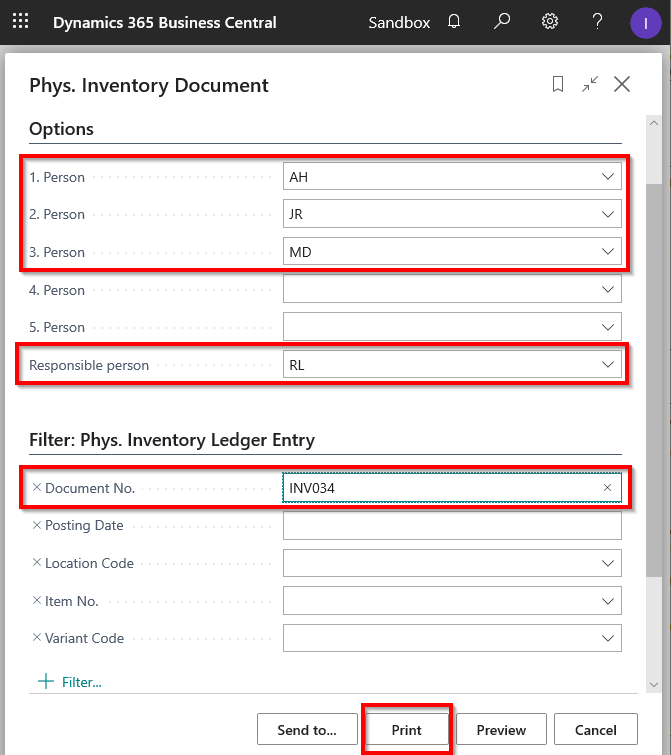
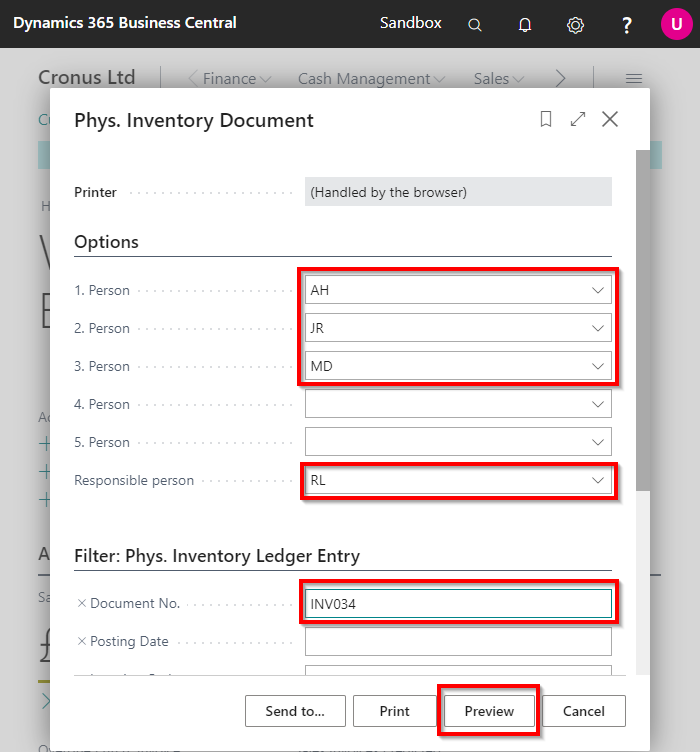
Automated Release lv-LV

diff --git a/lv-LV/docs/personnel_base/usage_scenarios/usage_scenarios.html b/lv-LV/docs/personnel_base/usage_scenarios/usage_scenarios.html
@@ -402,7 +402,7 @@ You should assign a foreign payment code for incoming external payment and prepa
 </ol>
 <p><img src="base_fbp002.png" alt="alt"></p>
 <h1 id="walkthrough-import-currency-exchange-rates">Walkthrough: Import Currency Exchange Rates</h1>
-<p><strong>About this walkthrough</strong>: transactions in foreign currencies are recorded in the system in local currency, based on currency exchange rate. Currency Exchange Rates may be uploaded into system either automatically on a regular basis using a job que entry or manually by user. The source of information is European Central Bank (<a href="http://www.ecb.int/stats/exchange/eurofxref/html/index.en.html">http://www.ecb.int/stats/exchange/eurofxref/html/index.en.html</a>).
+<p><strong>About this walkthrough</strong>: transactions in foreign currencies are recorded in the system in local currency, based on currency exchange rate. Currency Exchange Rates may be uploaded into system either automatically on a regular basis using a job queue entry or manually by user. The source of information is European Central Bank (<a href="http://www.ecb.int/stats/exchange/eurofxref/html/index.en.html">http://www.ecb.int/stats/exchange/eurofxref/html/index.en.html</a>).
 This walkthrough demonstrates the process for importing currency exchange rates.</p>
 <p><strong>Roles</strong>: No specific user roles are required.</p>
 <p><strong>Story</strong>: You are Anette Hill, assigned by Cronus International to import currency exchange rates.</p>
@@ -418,7 +418,7 @@ In order to enable the Currency Exchange Rate Service proceed with following ste
 </ol>
 <p><img src="Setup_CurrExchangeRates_001.png" alt="alt"></p>
 <ol start="3">
-<li>Select ECB-EXCHANGE-RATES from Currency Exchange Rate Services and press Enable. Enabling will creates a JobQueue entry, what will automatically runs the currency rate import.</li>
+<li>Select ECB-EXCHANGE-RATES from Currency Exchange Rate Services and press Enable. Enabling will creates a job queue entry, what will automatically runs the currency rate import.</li>
 </ol>
 <p><img src="us_Setup_CurrExchangeRates_002.png" alt="alt"></p>
 <ol start="4">
@@ -430,7 +430,7 @@ In order to enable the Currency Exchange Rate Service proceed with following ste
 </ol>
 <p><img src="Usage_Currencies_001.png" alt="alt"></p>
 <ol start="6">
-<li><p>Review the list of Currencies. Review only the currencies that are supported by ECB, for example AUD. If the automatically JOBQueue update will be already done, then the Exchange Rate will be imported.
+<li><p>Review the list of Currencies. Review only the currencies that are supported by ECB, for example AUD. If the automatically job queue update will be already done, then the Exchange Rate will be updated.
 <img src="us_base_use_curr002.png" alt="alt"></p>
 </li>
 <li><p>It the rates are not yet updated then a manual update can be done by clicking on <em>Import Currency Rates</em></p>
@@ -465,7 +465,7 @@ Cronus Ltd has agreed on a sales order with 50% prepayment with customer 20000 T
 <ol>
 <li>Choose the Search icon, enter sales orders, and click the related link.</li>
 <li>On the ribbon, on the Home tab, click New to create the prepayment sales order.</li>
-<li>In the Customer field enter <em>20000</em> and move to the next field. The sales order header is automatically filled in with the default settings from the customer card.</li>
+<li>In the Customer field choose customer <em>20000</em> and move to the next field. The sales order header is automatically filled in with the default settings from the customer card.</li>
 <li>In the Document Date, Posting Date and Order Date fields, enter desirable date, for example today's date.</li>
 <li>Expand the Prepayment FastTab.</li>
 <li>In the Prepayment % field, enter 50.</li>
@@ -480,7 +480,7 @@ Cronus Ltd has agreed on a sales order with 50% prepayment with customer 20000 T
 <p><img src="us_To_033.png" alt="alt">
 <img src="us_To_033.1.png" alt="alt"></p>
 <ol start="15">
-<li>Print Sales Prepayment Invoice- Particular Print button LV Sales Prepayment Invoice is located in the Ribbon under the TAB ACTIONS, in section PRINT.</li>
+<li>Print Sales Prepayment Invoice- Particular Print button <em>LV Sales Prepayment Invoice</em> is located in the ribbon under the tab <em>Actions</em>, in section <em>Print</em>.</li>
 </ol>
 <p><img src="us_To_032.png" alt="alt"></p>
 <ol start="15">
@@ -496,7 +496,7 @@ Cronus Ltd has agreed on a sales order with 50% prepayment with customer 20000 T
 </ul>
 <p><img src="us_To_034.png" alt="alt"></p>
 <ol start="16">
-<li>View Printout</li>
+<li>View Preview</li>
 </ol>
 <p><img src="us_To_035.png" alt="alt"></p>
 <p><strong>Note</strong>: document can be printed from unposted sales documents- Sales Order.</p>
@@ -504,13 +504,13 @@ Cronus Ltd has agreed on a sales order with 50% prepayment with customer 20000 T
 <p><strong>About this walkthrough</strong>: is prepared for customers as a sales invoice for goods shipped as sales source document. The printout has all required data for sales.
 This walkthrough demonstrates the process for printing sales invoice.</p>
 <p><strong>Roles</strong>: No specific user roles are required.</p>
-<p><strong>Story</strong>: You are Aleksandrs Kuzņecovs, assigned by Cronus International to be a salesperson in Cronus Ltd. The company runs business in the sphere of sales of furniture and rendering consultation services related to interior design upon request of local customers.
+<p><strong>Story</strong>: You are Peter Saddow, assigned by Cronus International to be a salesperson in Cronus Ltd. The company runs business in the sphere of sales of furniture and rendering consultation services related to interior design upon request of local customers.
 Cronus Ltd has agreed on a sales order with customer 20000 Trey Research, therefore your task is to prepare a sales invoice.</p>
 <p><strong>Pre-requisites</strong>: Master data catalogues to be created and configured.</p>
 <p><strong>Steps</strong>:</p>
 <ol>
 <li>Choose the Search icon, enter sales orders, and click the related link.</li>
-<li>On the ribbon, on the Home tab, click New to create the prepayment sales order.</li>
+<li>On the ribbon, on the Home tab, click New to create the sales order.</li>
 <li>In the Customer field enter <em>20000</em> and move to the next field. The sales order header is automatically filled in with the default settings from the customer card.</li>
 <li>In the Document Date, Posting Date and Order Date fields, enter today's date.</li>
 <li>Enter Sales Person code PS for Peter Saddow</li>
@@ -529,13 +529,12 @@ Cronus Ltd has agreed on a sales order with customer 20000 Trey Research, theref
 <p><img src="us_To_029.1.png" alt="alt">
 <img src="us_To_029.2.png" alt="alt"></p>
 <ol start="20">
-<li>Print Sales Invoice- Particular Print button LV Sales Invoice is located in the Ribbon under the TAB ACTIONS, in section PRINT.</li>
+<li>Print Sales Invoice- Particular Print button <em>LV Sales Invoice</em> is located in the ribbon under the tab <em>Actions</em>, in section <em>Print</em>.</li>
 </ol>
 <p><img src="us_To_029.png" alt="alt"></p>
 <ol start="20">
-<li>Set Printing Options</li>
+<li>Set Printing Options:</li>
 </ol>
-<p><strong>Printing Options</strong>: the following printing options are available for this printout:</p>
 <ul>
 <li>Count of Copies – enter 1, that will ensure printing of one original and one document copy</li>
 <li>Service invoice – should not be checked</li>
@@ -547,7 +546,7 @@ Cronus Ltd has agreed on a sales order with customer 20000 Trey Research, theref
 </ul>
 <p><img src="us_To_030.png" alt="alt"></p>
 <ol start="21">
-<li>Press Print</li>
+<li>Press Preview</li>
 </ol>
 <p><img src="us_To_031.png" alt="alt"></p>
 <h2 id="transfer-invoice">Transfer Invoice</h2>
@@ -559,15 +558,15 @@ Cronus Ltd requires to transfer goods from location MAIN to location EAST, there
 <p><strong>Pre-requisites</strong>: Master data catalogues to be created and configured.</p>
 <p><strong>Steps</strong>:</p>
 <ol>
-<li>Choose the Search icon, enter transfer orders, and click the related link.</li>
-<li>On the ribbon, on the Home tab, click New to create the transfer order.</li>
+<li>Choose the Search icon, enter <em>Transfer orders</em>, and click the related link.</li>
+<li>On the ribbon, on the Home tab, click <em>New</em> to create the transfer order.</li>
 <li>In the Transfer From field select location code (MAIN), in Transfer to field select location code (EAST), set In-Transit code (OWN LOG).</li>
 <li>In the Document Date, Posting Date and Order Date fields enter the date, for example today's date.</li>
 <li>Move to the Lines FastTab.</li>
 <li>In the first line enter the following information:</li>
 <li>In the No. field, enter Item No. (1896-S).</li>
 <li>In the Quantity field, enter 2.</li>
-<li>Print Transfer Invoice- Particular Print button LV Transfer Invoice is located in the Ribbon under the TAB ACTIONS.</li>
+<li>Print Transfer Invoice- Particular Print button <em>LV Transfer Invoice</em> is located in the ribbon under the tab <em>Action</em>.</li>
 </ol>
 <p><img src="us_To_046.png" alt="alt"></p>
 <ol start="10">
@@ -586,7 +585,7 @@ Cronus Ltd requires to transfer goods from location MAIN to location EAST, there
 <h1 id="walkthrough-post-advance-holder-transactions-and-prepare-advance-statement-report">Walkthrough: Post Advance Holder Transactions and Prepare Advance Statement Report</h1>
 <p><strong>About this walkthrough</strong>:  Advance holder transactions are the procurements made by the Employee, that are considered as company expenses. When a procurement happens, an advance holder reports to the company about the expenditures that were made. This walkthrough demonstrates the process for recording, controlling and reimbursing employee expenses.</p>
 <p><strong>Role</strong>: No specific user roles are required.</p>
-<p><strong>Story</strong>: You are John Roberts, assigned by Cronus International to be a CFO in Cronus. The company runs business in the sphere of sales of furniture and rendering consultation services related to interior design upon request of local customers.
+<p><strong>Story</strong>: You are John Roberts, assigned by Cronus International to be a CFO in Cronus Ltd. The company runs business in the sphere of sales of furniture and rendering consultation services related to interior design upon request of local customers.
 Cronus is required to record employee expenses for John Smith and create Advance Statement report.</p>
 <p><strong>Pre-requisites</strong>: Master data catalogues to be created and configured.</p>
 <p><strong>Steps</strong></p>
@@ -609,7 +608,7 @@ Cronus is required to record employee expenses for John Smith and create Advance
 <li><p>Enter Purchases &amp; Payables setup, and click the related link.
 <img src="GettingStarted_Search_001.4.png" alt="alt"></p>
 </li>
-<li><p>Enable function Copy line description to G/L Entry.
+<li><p>Enable function <em>Copy line description to G/L Entry</em>
 <img src="GettingStarted_Search_001.5.png" alt="alt"></p>
 </li>
 <li><p>Click on the button Search for Page or Report...
@@ -662,7 +661,7 @@ Cronus is required to record employee expenses for John Smith and create Advance
 <img src="us_base_use_advr1.png" alt="alt"></li>
 </ul>
 <ol start="19">
-<li>Press Print and review the printout
+<li>Press Preview and review the printout
 <img src="us_base_use_advr3.png" alt="alt"></li>
 </ol>
 <h1 id="walkthrough-inventory">Walkthrough: Inventory</h1>
@@ -670,8 +669,8 @@ Cronus is required to record employee expenses for John Smith and create Advance
 <p><strong>About this walkthrough</strong>:  Company may perform a stock-take on regular basis, in order to control item quantities in system and in nature.
 This walkthrough demonstrates the process for recording and controlling physical inventory.</p>
 <p><strong>Role</strong>: no specific role required</p>
-<p><strong>Story</strong>: You are Richard Lum, Production Manager in Cronus International. The company runs business in the sphere of sales of furniture and rendering consultation services related to interior design upon request of local customers.
-Cronus International is required to perform an inventory stock take. Your task is to calculate stock for item 1896-S and prepare Physical Inventory Document.</p>
+<p><strong>Story</strong>: You are Richard Lum, Production Manager in Cronus Ltd. The company runs business in the sphere of sales of furniture and rendering consultation services related to interior design upon request of local customers
+Cronus Ltd is required to perform an inventory stock-take. Your task is to calculate stock for item 1896-S and prepare Physical Inventory Document.</p>
 <p><strong>Pre-requisites:</strong> Master data catalogues to be created and configured.</p>
 <p><strong>Steps</strong>:</p>
 <ol>
@@ -684,18 +683,18 @@ Cronus International is required to perform an inventory stock take. Your task i
 <li>In the Calculate Inventory window, specify the conditions to use to create the journal lines, such as whether to include items that have zero recorded inventory.</li>
 </ol>
 <ul>
-<li>Posting Date - <strong>9/21/2020</strong></li>
-<li>Document No. - <strong>INV034</strong></li>
-<li>No. - <strong>1896-S</strong>
+<li>Posting Date - today's date</li>
+<li>Document No. - (INV034)</li>
+<li>No. - (1896-S)
 <img src="us_base_physical003.png" alt="alt"></li>
 </ul>
 <ol start="5">
 <li>Choose the OK button.</li>
-<li>For first journal line Item 1896-S change Qty. (Phys.Inventory) set to 3
+<li>For first journal line Item 1896-S change Qty. (Phys.Inventory) to 3
 <img src="us_base_use_inv001.png" alt="alt"></li>
-<li>Post Journal</li>
+<li>Post journal by clicking on <em>Post/Print</em> and <em>Post</em></li>
 <li>Choose the OK button.</li>
-<li>Enter Phys. Inventory Document in Search for Page or Report…
+<li>Enter <em>Phys. Inventory Document</em> in Search for Page or Report…
 <img src="To_062.png" alt="alt"></li>
 </ol>
 <p><strong>Note</strong>: The document can be printed only after the Phys. Inventory Journal lines are posted and Adjust Cost-Item Entries job has been successfully executed.</p>
@@ -722,7 +721,7 @@ Few damaged goods are identified after the stock take. Your task is to write off
 <ol>
 <li><p>Choose the Search icon, enter Item Journals, and then choose the related link.</p>
 </li>
-<li><p>Enter Posting Date- 09/30/2020</p>
+<li><p>Enter Posting Date- today's date</p>
 </li>
 <li><p>Enter Entry Type- Negative Adjmt.</p>
 </li>
@@ -739,28 +738,22 @@ Few damaged goods are identified after the stock take. Your task is to write off
 <li><p>Press OK to close the journal
 <img src="us_base_use_comp004.png" alt="alt"></p>
 </li>
-<li><p>Choose the  icon, enter Posted Inventory Write-Off Document</p>
+<li><p>Choose the Search icon, enter Posted Inventory Write-Off Document</p>
 </li>
 </ol>
 <p><img src="To_066.png" alt="alt"></p>
 <ol start="11">
-<li>Set Printing Options
-<strong>Printing Options</strong>:</li>
+<li>Set Printing Options:</li>
 </ol>
 <ul>
-<li>Reason – type ‘Damaged Goods’</li>
-<li>
-<ol>
-<li>Person.. 5.Person – select employees from List of Employees (AH, JR, MD)</li>
-</ol>
-</li>
-<li>Set Filter Item Ledger Entry</li>
+<li>Reason – (Damaged Goods)</li>
+<li>1.Person.. 5.Person – select employees from List of Employees (AH, JR, MD)</li>
+<li>Document No. - T00001</li>
+<li>Posting Date - today's date</li>
 </ul>
-<p>o	Posting Date: today's date</p>
-<p>o	Document No. : T0001</p>
 <p><img src="us_To_068.png" alt="alt"></p>
 <ol start="12">
-<li>Press Print</li>
+<li>Press <em>Preview</em></li>
 </ol>
 <p><img src="us_To_069.png" alt="alt"></p>
 </article>
